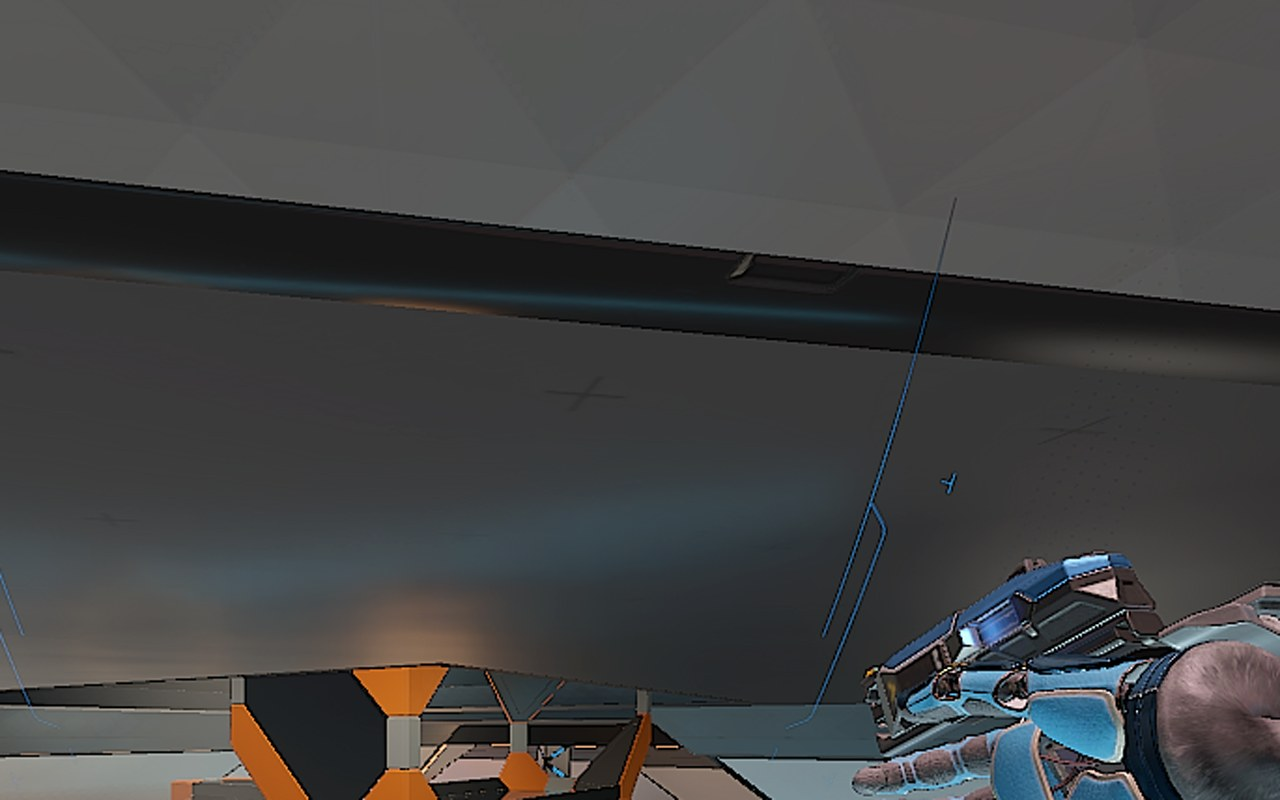
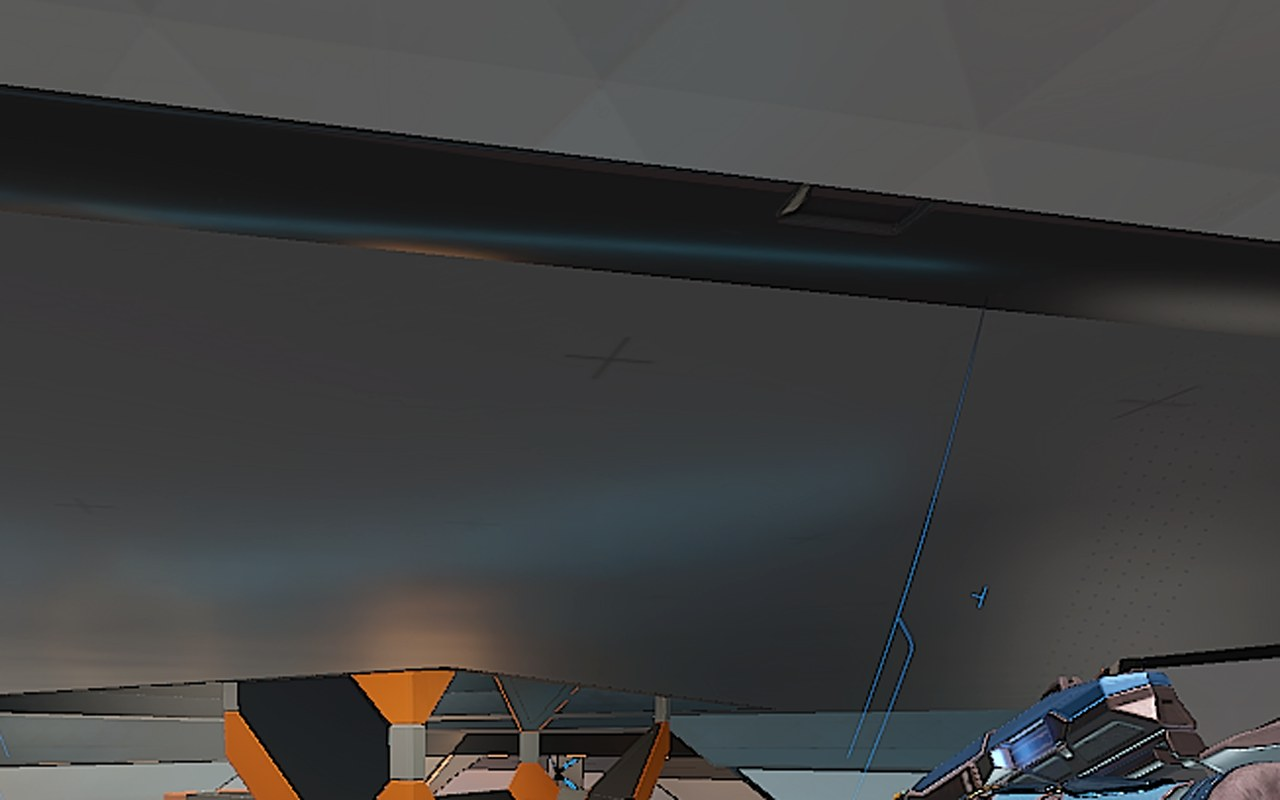
W-27 re-pose PC views on 7 pairs (Dyson u03 u16, Combustion u41 u42 u54 u55, Fission u03); tree e8610a124a61b67c

diff --git a/index.html b/index.html
@@ -117,7 +117,7 @@ footer{margin:56px 0 0;padding:20px 0 40px;font-size:.86rem;color:var(--mut);bor
 @media (prefers-reduced-motion:reduce){html{scroll-behavior:auto}}
 </style></head><body>
 <nav class="top" aria-label="Sections"><div class="wrap"><div class="links"><a href="#areas">Areas</a><a href="#scripts">Scripts</a><a href="spot.html">Spot the difference</a><a href="feedback.html">Tester feedback</a></div><button class="tg" id="tg" type="button" aria-label="Switch light or dark">&#9680;<span class="lg"> Light / dark</span></button></div></nav>
-<header class="hero"><div class="wrap"><h1>Echo Combat on Quest</h1><p class="tag">Ducky&#x27;s fan port of Echo Combat to the standalone Quest 3 and the Steam Frame. This page tracks how far it has come.</p><div class="stats"><div class="stat"><b>100.00%</b><span>of the PC game logic a headset runs, on the Quest (newest test build)</span></div></div><p class="upd">Updated 2026-10-16 22:36. Fan project. Not affiliated with or endorsed by Ready At Dawn or Meta. Echo VR and Echo Combat belong to their owners. No game files or builds are shared here.</p></div></header>
+<header class="hero"><div class="wrap"><h1>Echo Combat on Quest</h1><p class="tag">Ducky&#x27;s fan port of Echo Combat to the standalone Quest 3 and the Steam Frame. This page tracks how far it has come.</p><div class="stats"><div class="stat"><b>100.00%</b><span>of the PC game logic a headset runs, on the Quest (newest test build)</span></div></div><p class="upd">Updated 2026-10-17 13:36. Fan project. Not affiliated with or endorsed by Ready At Dawn or Meta. Echo VR and Echo Combat belong to their owners. No game files or builds are shared here.</p></div></header>
 <main>
 <section class="sec" id="areas"><div class="wrap"><h2>Areas</h2><div class="tw"><table class="ar"><thead><tr><th>Area</th><th>Works</th><th>Missing</th></tr></thead><tbody>
 <tr id="a-scripting"><td><b>Scripting</b></td><td>100 % of the game&#x27;s script steps run (12,608 of 12,608), with and without the EchoCombat mod.</td><td>Nothing.</td></tr>
@@ -248,7 +248,7 @@ footer{margin:56px 0 0;padding:20px 0 40px;font-size:.86rem;color:var(--mut);bor
 </tbody></table></div></div></section>
 <section class="sec" id="compare"><div class="wrap"><h2>PC vs Quest 3</h2><p class="lead"><a href="spot.html">Spot the difference: every view on the PC and on the Quest 3, one at a time &#8594;</a></p></div></section>
 </main>
-<footer><div class="wrap">A project by Ducky. Fan project. Not affiliated with or endorsed by Ready At Dawn or Meta. Echo VR and Echo Combat belong to their owners. No game files or builds are shared here.<br>Page built 2026-10-16 22:36; the numbers update with every reviewed build, the words were last checked 2026-10-13 14:00.</div></footer>
+<footer><div class="wrap">A project by Ducky. Fan project. Not affiliated with or endorsed by Ready At Dawn or Meta. Echo VR and Echo Combat belong to their owners. No game files or builds are shared here.<br>Page built 2026-10-17 13:36; the numbers update with every reviewed build, the words were last checked 2026-10-13 14:00.</div></footer>
 <div class="lb" id="lb" role="dialog" aria-modal="true" aria-label="Image viewer" hidden><div class="lb-bar"><span class="lb-n"></span><button type="button" class="lb-x" aria-label="Close">&#10005;</button></div><div class="lb-stage"></div><button type="button" class="lb-nav p" aria-label="Previous">&#8592;</button><button type="button" class="lb-nav n" aria-label="Next">&#8594;</button><p class="lb-cap"></p></div>
 <script>
 (function(){

diff --git a/spot/combustion/u41.html b/spot/combustion/u41.html
@@ -66,7 +66,7 @@ body.nopanel #ptog{display:block}body.nopanel #maps{margin-right:190px}
  #tools{font-size:.82rem;gap:0;max-width:calc(100vw - 20px)}#tools button{padding:7px 9px}
 }
 </style></head>
-<body data-notes="https://echocombat-notes.kotorvr.com/spot/v1/notes" data-pose="combustion-u41" data-ver="0387f2">
+<body data-notes="https://echocombat-notes.kotorvr.com/spot/v1/notes" data-pose="combustion-u41" data-ver="2e53f4">
 <main id="ph" aria-label="Combustion: view 41. Left of the line: PC. Right of the line: Quest 3.">
 <div class="ly"><img id="ia" src="../../media/compare-41-a.jpg" alt="Combustion: view 41 on PC" draggable="false"></div>
 <div class="ly" id="lb"><img id="ib" src="../../media/compare-41-b.jpg" alt="Combustion: view 41 on Quest 3" draggable="false"></div>

diff --git a/spot/combustion/u42.html b/spot/combustion/u42.html
@@ -66,7 +66,7 @@ body.nopanel #ptog{display:block}body.nopanel #maps{margin-right:190px}
  #tools{font-size:.82rem;gap:0;max-width:calc(100vw - 20px)}#tools button{padding:7px 9px}
 }
 </style></head>
-<body data-notes="https://echocombat-notes.kotorvr.com/spot/v1/notes" data-pose="combustion-u42" data-ver="497987">
+<body data-notes="https://echocombat-notes.kotorvr.com/spot/v1/notes" data-pose="combustion-u42" data-ver="12af7a">
 <main id="ph" aria-label="Combustion: view 42. Left of the line: PC. Right of the line: Quest 3.">
 <div class="ly"><img id="ia" src="../../media/compare-42-a.jpg" alt="Combustion: view 42 on PC" draggable="false"></div>
 <div class="ly" id="lb"><img id="ib" src="../../media/compare-42-b.jpg" alt="Combustion: view 42 on Quest 3" draggable="false"></div>

diff --git a/spot/combustion/u54.html b/spot/combustion/u54.html
@@ -66,7 +66,7 @@ body.nopanel #ptog{display:block}body.nopanel #maps{margin-right:190px}
  #tools{font-size:.82rem;gap:0;max-width:calc(100vw - 20px)}#tools button{padding:7px 9px}
 }
 </style></head>
-<body data-notes="https://echocombat-notes.kotorvr.com/spot/v1/notes" data-pose="combustion-u54" data-ver="ce0d15">
+<body data-notes="https://echocombat-notes.kotorvr.com/spot/v1/notes" data-pose="combustion-u54" data-ver="6df36d">
 <main id="ph" aria-label="Combustion: view 54. Left of the line: PC. Right of the line: Quest 3.">
 <div class="ly"><img id="ia" src="../../media/compare-54-a.jpg" alt="Combustion: view 54 on PC" draggable="false"></div>
 <div class="ly" id="lb"><img id="ib" src="../../media/compare-54-b.jpg" alt="Combustion: view 54 on Quest 3" draggable="false"></div>

diff --git a/spot/combustion/u55.html b/spot/combustion/u55.html
@@ -66,7 +66,7 @@ body.nopanel #ptog{display:block}body.nopanel #maps{margin-right:190px}
  #tools{font-size:.82rem;gap:0;max-width:calc(100vw - 20px)}#tools button{padding:7px 9px}
 }
 </style></head>
-<body data-notes="https://echocombat-notes.kotorvr.com/spot/v1/notes" data-pose="combustion-u55" data-ver="eb104d">
+<body data-notes="https://echocombat-notes.kotorvr.com/spot/v1/notes" data-pose="combustion-u55" data-ver="bc7bff">
 <main id="ph" aria-label="Combustion: view 55. Left of the line: PC. Right of the line: Quest 3.">
 <div class="ly"><img id="ia" src="../../media/compare-55-a.jpg" alt="Combustion: view 55 on PC" draggable="false"></div>
 <div class="ly" id="lb"><img id="ib" src="../../media/compare-55-b.jpg" alt="Combustion: view 55 on Quest 3" draggable="false"></div>

diff --git a/spot/fission/u03.html b/spot/fission/u03.html
@@ -66,7 +66,7 @@ body.nopanel #ptog{display:block}body.nopanel #maps{margin-right:190px}
  #tools{font-size:.82rem;gap:0;max-width:calc(100vw - 20px)}#tools button{padding:7px 9px}
 }
 </style></head>
-<body data-notes="https://echocombat-notes.kotorvr.com/spot/v1/notes" data-pose="fission-u03" data-ver="a76934">
+<body data-notes="https://echocombat-notes.kotorvr.com/spot/v1/notes" data-pose="fission-u03" data-ver="762194">
 <main id="ph" aria-label="Fission: view 3. Left of the line: PC. Right of the line: Quest 3.">
 <div class="ly"><img id="ia" src="../../media/compare-68-a.jpg" alt="Fission: view 3 on PC" draggable="false"></div>
 <div class="ly" id="lb"><img id="ib" src="../../media/compare-68-b.jpg" alt="Fission: view 3 on Quest 3" draggable="false"></div>

diff --git a/spot/dyson/u16.html b/spot/dyson/u16.html
@@ -66,7 +66,7 @@ body.nopanel #ptog{display:block}body.nopanel #maps{margin-right:190px}
  #tools{font-size:.82rem;gap:0;max-width:calc(100vw - 20px)}#tools button{padding:7px 9px}
 }
 </style></head>
-<body data-notes="https://echocombat-notes.kotorvr.com/spot/v1/notes" data-pose="dyson-u16" data-ver="3a884d">
+<body data-notes="https://echocombat-notes.kotorvr.com/spot/v1/notes" data-pose="dyson-u16" data-ver="7b8464">
 <main id="ph" aria-label="Dyson: view 16. Left of the line: PC. Right of the line: Quest 3.">
 <div class="ly"><img id="ia" src="../../media/compare-16-a.jpg" alt="Dyson: view 16 on PC" draggable="false"></div>
 <div class="ly" id="lb"><img id="ib" src="../../media/compare-16-b.jpg" alt="Dyson: view 16 on Quest 3" draggable="false"></div>

diff --git a/spot/dyson/u03.html b/spot/dyson/u03.html
@@ -66,7 +66,7 @@ body.nopanel #ptog{display:block}body.nopanel #maps{margin-right:190px}
  #tools{font-size:.82rem;gap:0;max-width:calc(100vw - 20px)}#tools button{padding:7px 9px}
 }
 </style></head>
-<body data-notes="https://echocombat-notes.kotorvr.com/spot/v1/notes" data-pose="dyson-u03" data-ver="0fea9d">
+<body data-notes="https://echocombat-notes.kotorvr.com/spot/v1/notes" data-pose="dyson-u03" data-ver="2064ca">
 <main id="ph" aria-label="Dyson: view 3. Left of the line: PC. Right of the line: Quest 3.">
 <div class="ly"><img id="ia" src="../../media/compare-03-a.jpg" alt="Dyson: view 3 on PC" draggable="false"></div>
 <div class="ly" id="lb"><img id="ib" src="../../media/compare-03-b.jpg" alt="Dyson: view 3 on Quest 3" draggable="false"></div>
